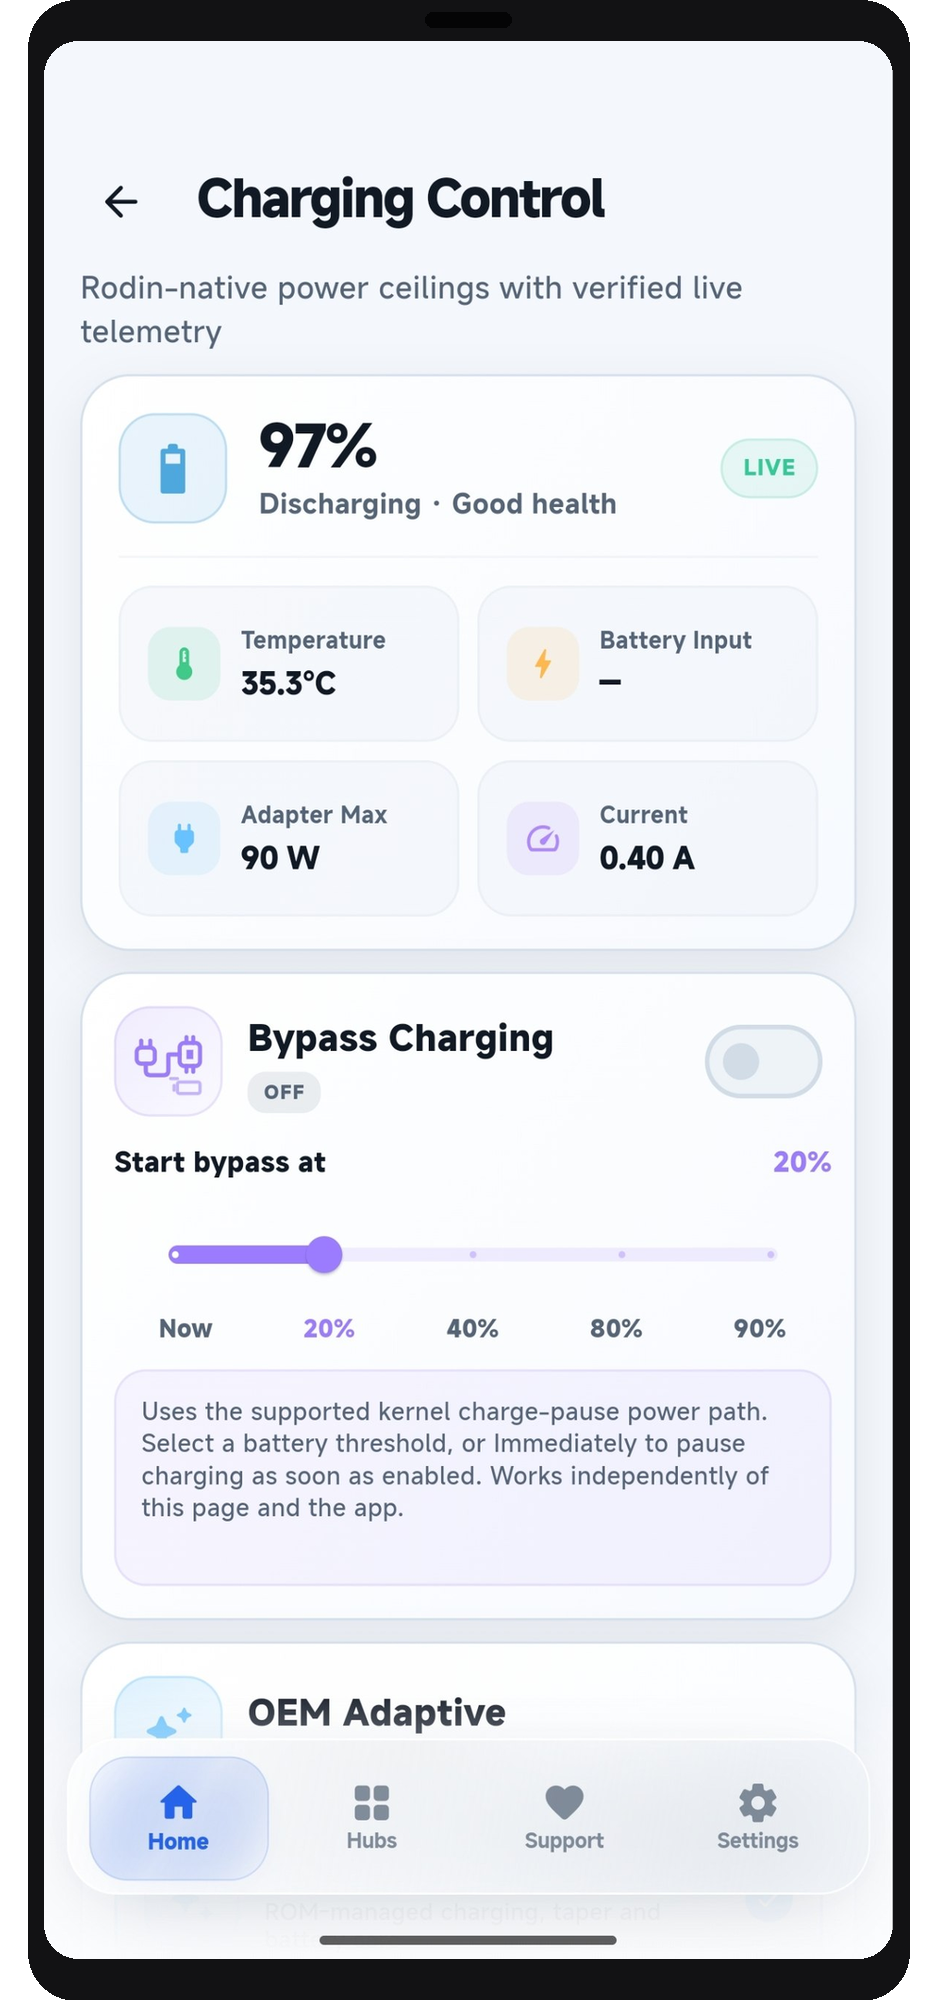
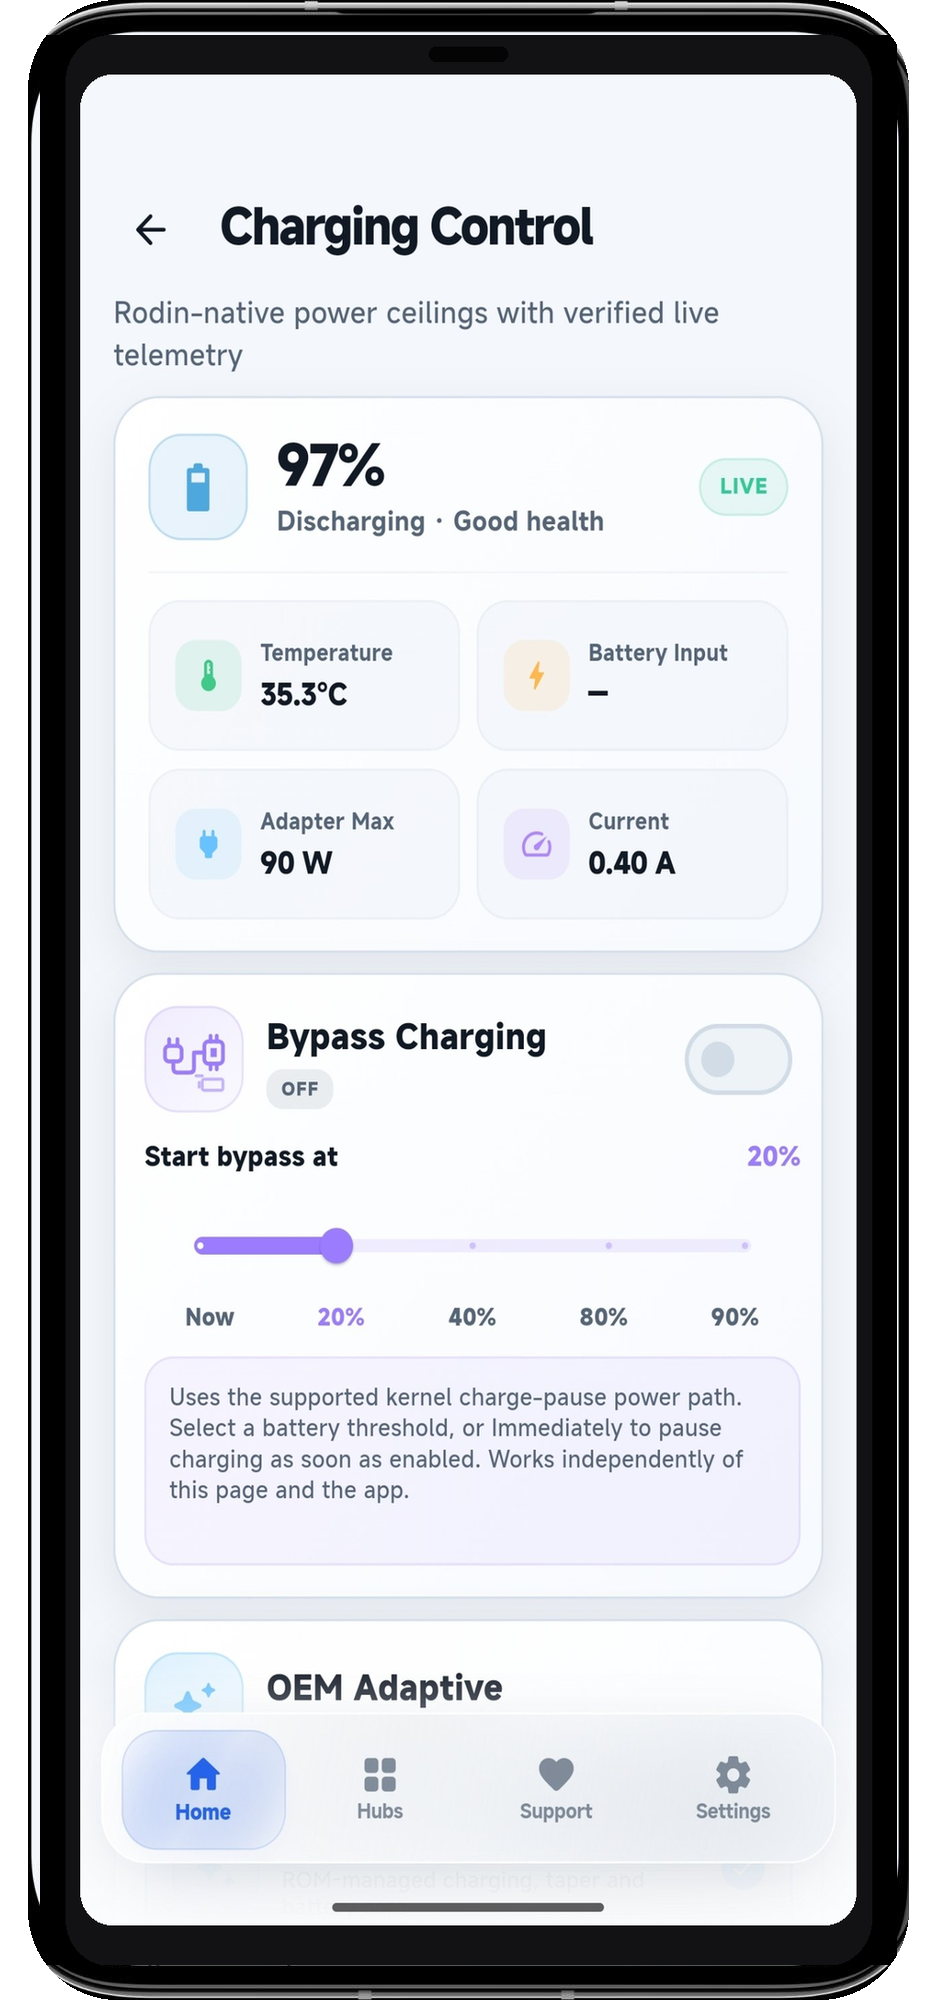
Match all screenshot phone frames

diff --git a/README.md b/README.md
@@ -54,7 +54,7 @@ installer and are not supported by the included AOSP policy.
 The redesigned interface groups live device telemetry and hardware tuning into
 focused panels for each subsystem.
 
-<table align="center" border="0" cellpadding="8" cellspacing="0">
+<table align="center" style="border: 0; border-collapse: collapse;">
   <tr>
     <td align="center"><a href="docs/screenshots/home-redesigned.png"><img src="docs/screenshots/home-redesigned.png" alt="Home dashboard" width="150"></a><br><sub><b>Home</b> - Device Pulse and quick controls</sub></td>
     <td align="center"><a href="docs/screenshots/control-hubs-redesigned.png"><img src="docs/screenshots/control-hubs-redesigned.png" alt="Control hubs" width="150"></a><br><sub><b>Control Hubs</b> - Hardware subsystem navigation</sub></td>
